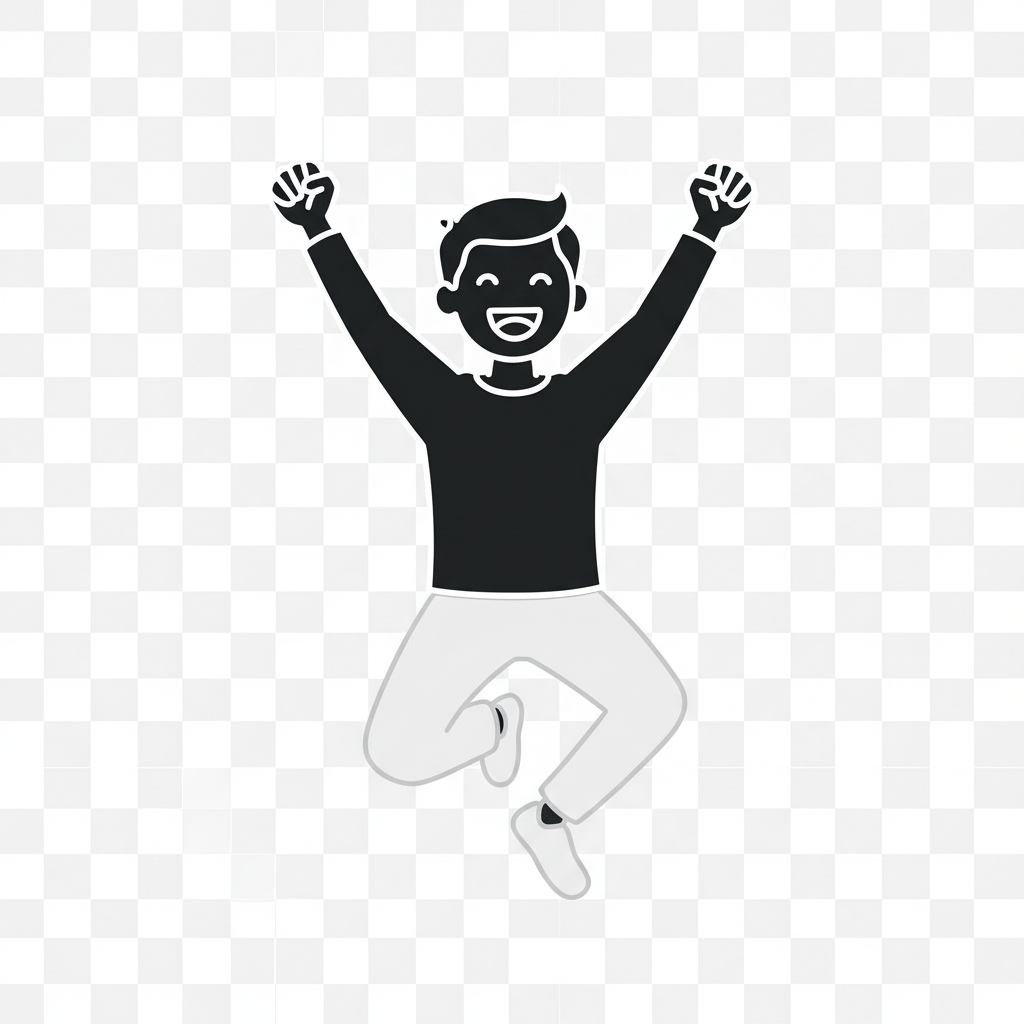
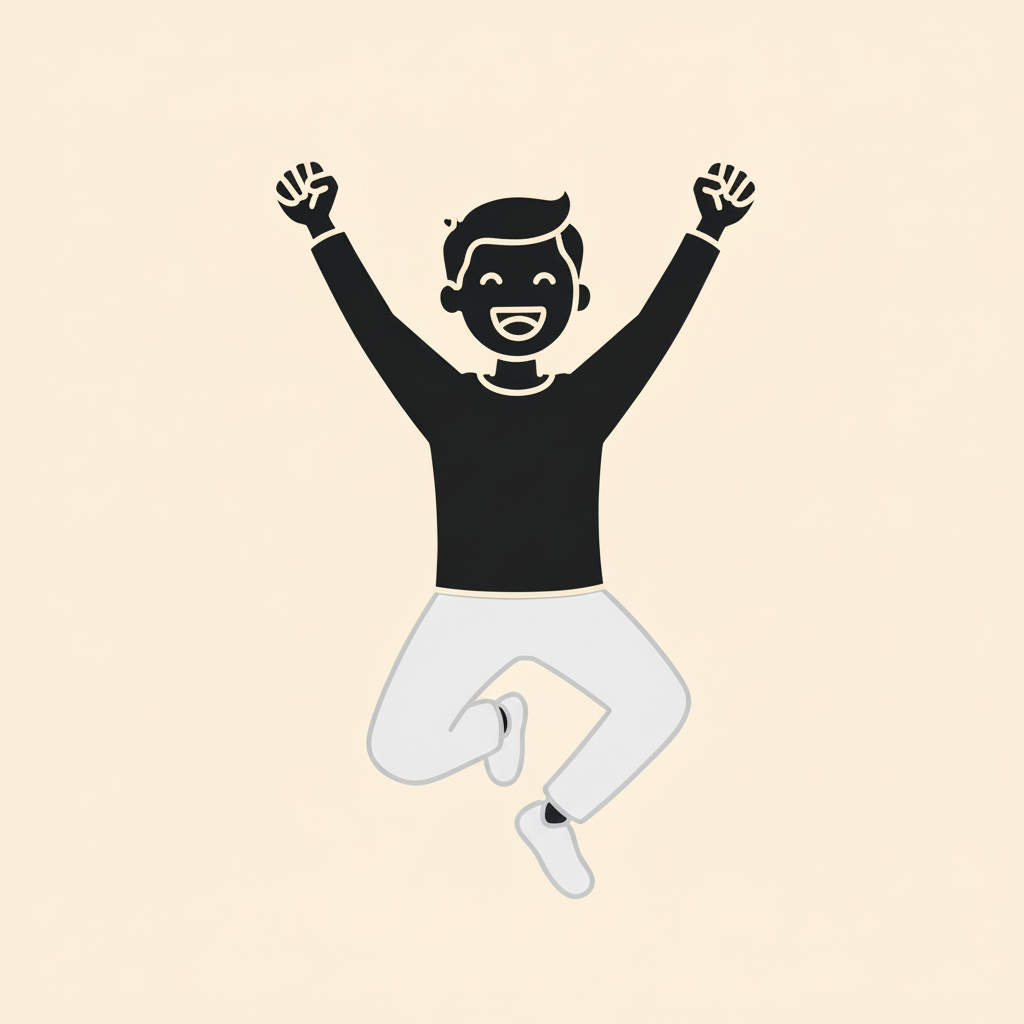
Changes

diff --git a/src/components/HeroSection.tsx b/src/components/HeroSection.tsx
@@ -37,7 +37,7 @@ const HeroSection = () => {
               </span>
             </motion.div>
 
-            <h1 className="text-[clamp(2.4rem,5.5vw,4.5rem)] font-heading font-bold leading-[0.95] mb-8" style={{ wordBreak: "keep-all", overflowWrap: "normal" }}>
+            <h1 className="text-[clamp(2.2rem,5vw,4.2rem)] font-heading font-bold leading-[0.95] mb-8" style={{ wordBreak: "keep-all", overflowWrap: "normal" }}>
               <span className="block overflow-hidden">
                 {line1.split("").map((char, i) => (
                   <motion.span
@@ -110,8 +110,8 @@ const HeroSection = () => {
             <img
               src={heroIllustration}
               alt="Person celebrating AI success"
-              className="w-[420px] h-auto"
-              style={{ background: "transparent", mixBlendMode: "multiply" }}
+              className="w-[420px] h-auto rounded-2xl"
+              style={{ mixBlendMode: "multiply" }}
             />
           </motion.div>
         </div>
